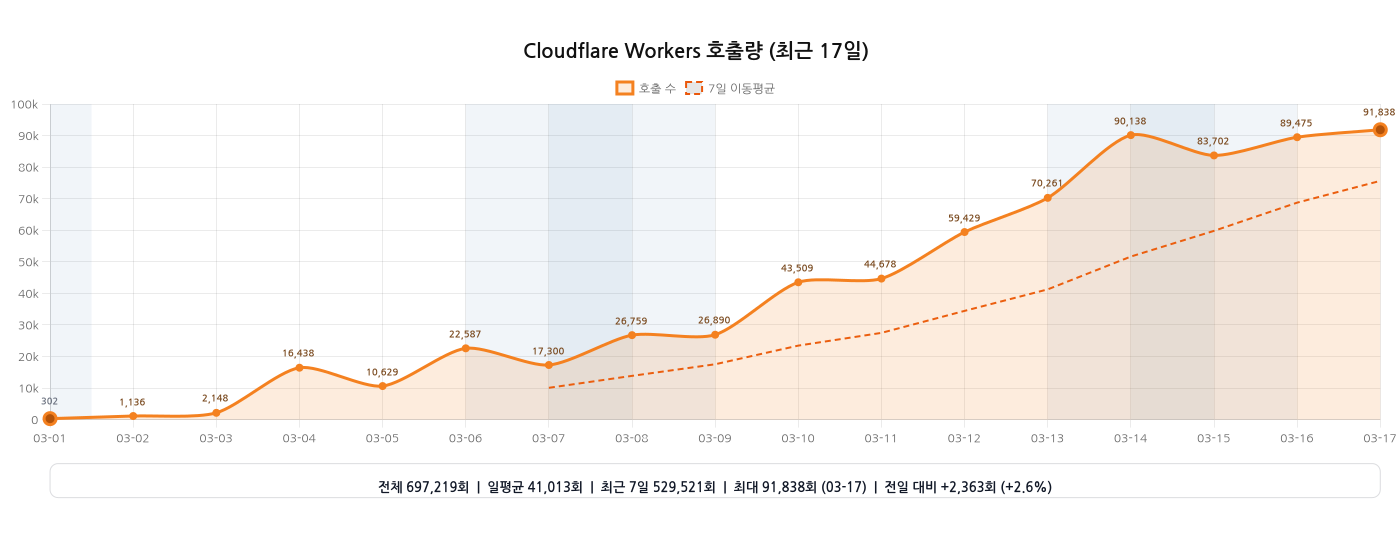
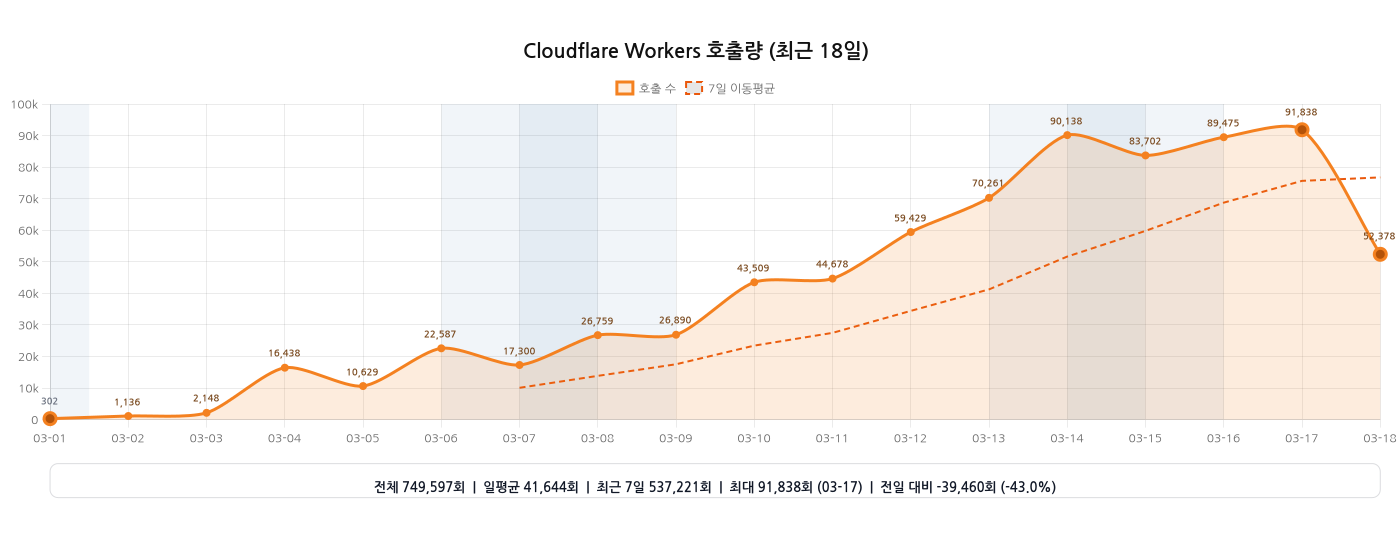
chore: 워커 호출량 그래프 자동 갱신

diff --git a/README.md b/README.md
@@ -18,11 +18,11 @@
 [![Coverage](https://github.com/hmmhmmhm/daiso-mcp/actions/workflows/coverage.yml/badge.svg?branch=main)](https://github.com/hmmhmmhm/daiso-mcp/actions/workflows/coverage.yml)
 
 <!-- WORKERS_INVOCATIONS_CHART:START -->
-<h3>Cloudflare Workers 호출량 (2026-03-01 ~ 2026-03-17, 17일)</h3>
+<h3>Cloudflare Workers 호출량 (2026-03-01 ~ 2026-03-18, 18일)</h3>
 
-<img src="./assets/analytics/workers-invocations.png?v=2026-03-17T15:42:56.268Z" alt="Cloudflare Workers 호출량 그래프 (2026-03-01 ~ 2026-03-17)" width="100%">
+<img src="./assets/analytics/workers-invocations.png?v=2026-03-18T15:48:54.188Z" alt="Cloudflare Workers 호출량 그래프 (2026-03-01 ~ 2026-03-18)" width="100%">
 
-<sub>기준 워커: <code>daiso-mcp</code> · 마지막 갱신: 2026-03-18 00:42 KST</sub>
+<sub>기준 워커: <code>daiso-mcp</code> · 마지막 갱신: 2026-03-19 00:48 KST</sub>
 
 <!-- WORKERS_INVOCATIONS_CHART:END -->
 
